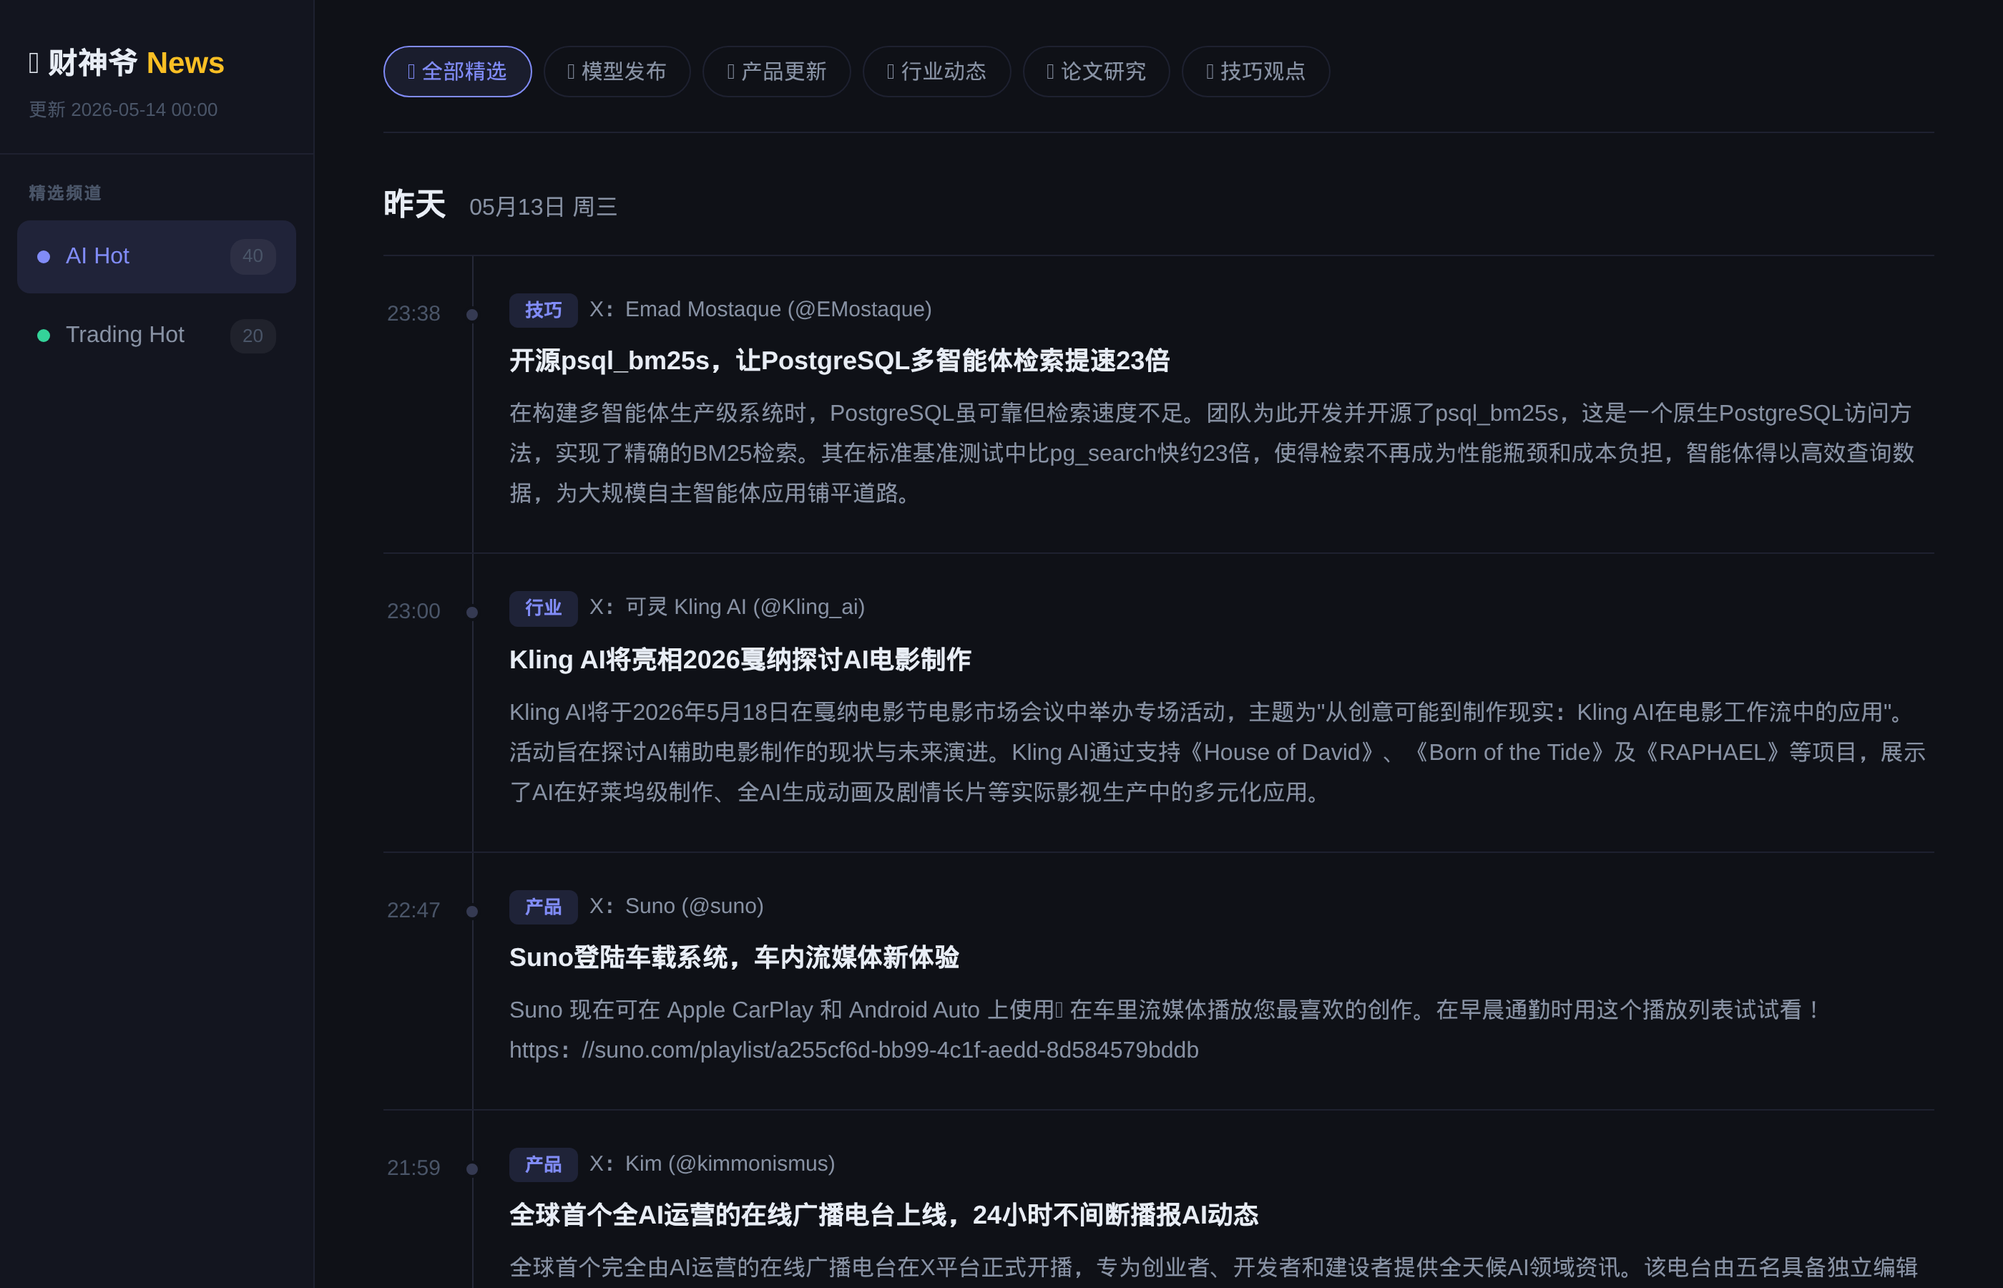
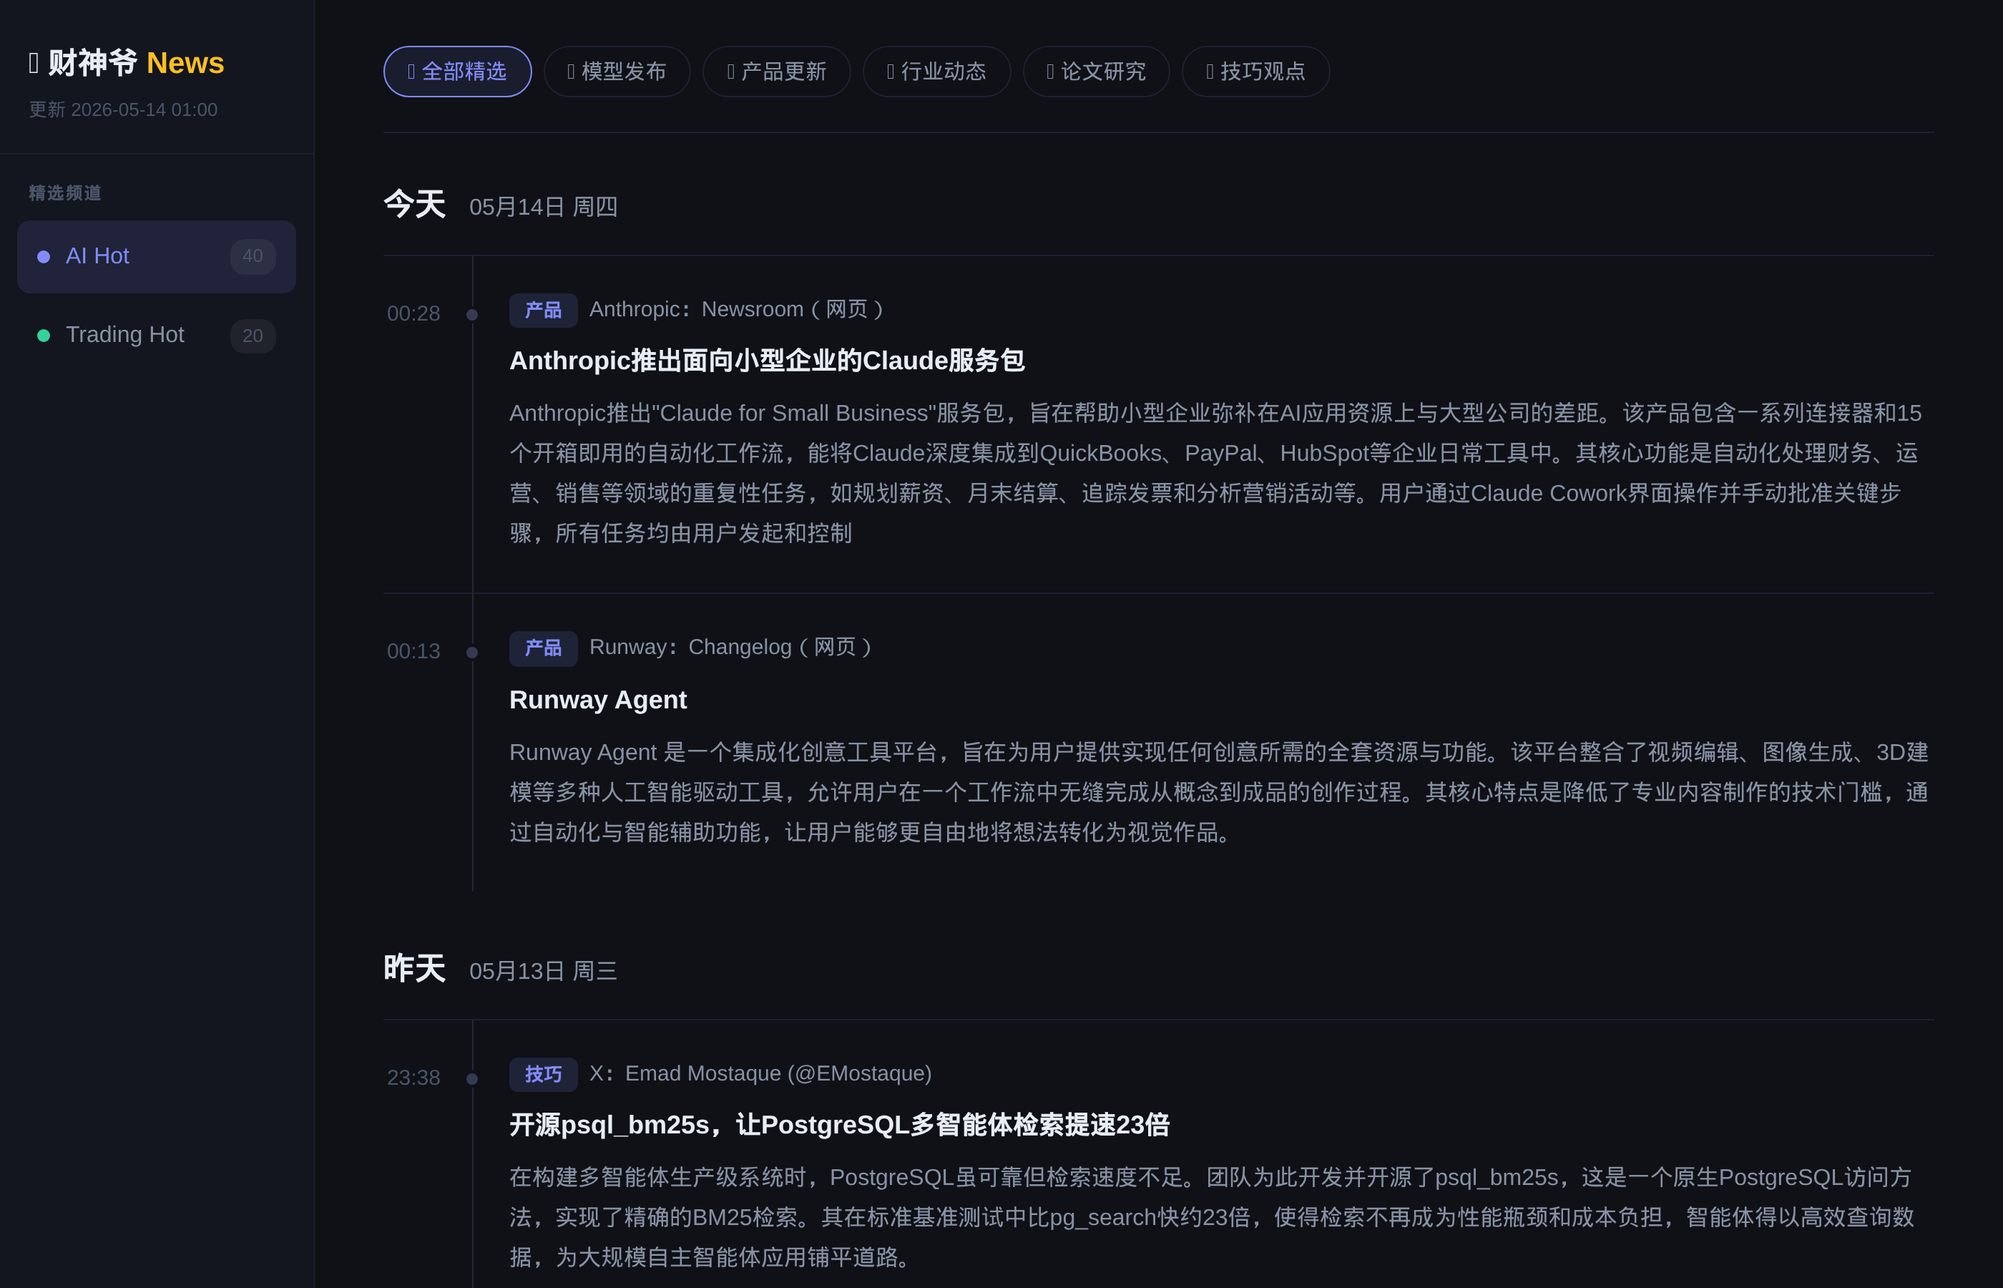
auto update 2026-05-14 01:00

Changed region(s): [[0.2486, 0.2178, 0.9632, 0.6533], [0.1864, 0.6844, 0.9632, 0.9956], [0.1864, 0.1556, 0.2175, 0.1867]]

diff --git a/index.html b/index.html
@@ -106,7 +106,7 @@ body{font-family:-apple-system,BlinkMacSystemFont,"Segoe UI","PingFang SC","Micr
 <body>
 <aside class="sb">
   <div class="sb-logo">💰 财神爷 <span>News</span>
-    <div class="sb-up">更新 2026-05-14 00:00</div>
+    <div class="sb-up">更新 2026-05-14 01:00</div>
   </div>
   <nav class="sb-nav">
     <div class="nav-lbl">精选频道</div>
@@ -122,6 +122,28 @@ body{font-family:-apple-system,BlinkMacSystemFont,"Segoe UI","PingFang SC","Micr
   <div class="section active" id="sec-aihot">
     <div class="cat-bar"><button class="cat-btn active" data-filter="all" data-section="sec-aihot" onclick="filterCat(this)">🔥 全部精选</button><button class="cat-btn" data-filter="ai-models" data-section="sec-aihot" onclick="filterCat(this)">🤖 模型发布</button><button class="cat-btn" data-filter="ai-products" data-section="sec-aihot" onclick="filterCat(this)">🚀 产品更新</button><button class="cat-btn" data-filter="industry" data-section="sec-aihot" onclick="filterCat(this)">🏭 行业动态</button><button class="cat-btn" data-filter="paper" data-section="sec-aihot" onclick="filterCat(this)">📄 论文研究</button><button class="cat-btn" data-filter="tip" data-section="sec-aihot" onclick="filterCat(this)">💡 技巧观点</button></div>
         <div class="dgroup">
+      <div class="dheader">今天 <span class='dsub'>05月14日 周四</span></div>
+      <div class="ilist">
+      <div class="item" data-cats="ai-products">
+        <div class="item-time">00:28</div>
+        <div class="item-body">
+          <div class="item-meta"><span class="badge badge-ai">产品</span><span class="isrc">Anthropic：Newsroom（网页）</span></div>
+          <a class="item-title" href="https://www.anthropic.com/news/claude-for-small-business" target="_blank" rel="noopener">Anthropic推出面向小型企业的Claude服务包</a>
+          <div class="item-summary">Anthropic推出&quot;Claude for Small Business&quot;服务包，旨在帮助小型企业弥补在AI应用资源上与大型公司的差距。该产品包含一系列连接器和15个开箱即用的自动化工作流，能将Claude深度集成到QuickBooks、PayPal、HubSpot等企业日常工具中。其核心功能是自动化处理财务、运营、销售等领域的重复性任务，如规划薪资、月末结算、追踪发票和分析营销活动等。用户通过Claude Cowork界面操作并手动批准关键步骤，所有任务均由用户发起和控制</div>
+        </div>
+      </div>
+
+      <div class="item" data-cats="ai-products">
+        <div class="item-time">00:13</div>
+        <div class="item-body">
+          <div class="item-meta"><span class="badge badge-ai">产品</span><span class="isrc">Runway：Changelog（网页）</span></div>
+          <a class="item-title" href="https://app.runwayml.com/agent" target="_blank" rel="noopener">Runway Agent</a>
+          <div class="item-summary">Runway Agent 是一个集成化创意工具平台，旨在为用户提供实现任何创意所需的全套资源与功能。该平台整合了视频编辑、图像生成、3D建模等多种人工智能驱动工具，允许用户在一个工作流中无缝完成从概念到成品的创作过程。其核心特点是降低了专业内容制作的技术门槛，通过自动化与智能辅助功能，让用户能够更自由地将想法转化为视觉作品。</div>
+        </div>
+      </div>
+      </div>
+    </div>
+    <div class="dgroup">
       <div class="dheader">昨天 <span class='dsub'>05月13日 周三</span></div>
       <div class="ilist">
       <div class="item" data-cats="tip">
@@ -383,15 +405,6 @@ https：//x.com/browser_use/status/2054330495249564094/video/1</div>
         </div>
       </div>
 
-      <div class="item" data-cats="tip">
-        <div class="item-time">02:54</div>
-        <div class="item-body">
-          <div class="item-meta"><span class="badge badge-ai">技巧</span><span class="isrc">Claude：Blog（网页）</span></div>
-          <a class="item-title" href="https://claude.com/blog/how-anthropic-uses-claude-cybersecurity" target="_blank" rel="noopener">Anthropic 网络安全团队如何利用 Claude Code 构建威胁检测平台</a>
-          <div class="item-summary">Anthropic 检测平台工程团队技术负责人 Jackie Bow 运用 Claude Code 开发了 CLUE 威胁检测与响应平台。该平台通过自然语言界面连接内部系统，包含 CLUE Triage 自动初筛警报，整合上下文信息分配处置建议；以及 CLUE Investigate 支持分析师用自然语言查询日志，由 Claude 自动生成并执行查询，将数小时的人工分析缩短至几分钟。团队在一天内完成概念验证，一周内交付实现，显著提升了安全运营效率。</div>
-        </div>
-      </div>
-
       <div class="item" data-cats="ai-models">
         <div class="item-time">02:23</div>
         <div class="item-body">
@@ -407,15 +420,6 @@ https：//x.com/browser_use/status/2054330495249564094/video/1</div>
           <div class="item-meta"><span class="badge badge-ai">行业</span><span class="isrc">X：cb_doge (@cb_doge)</span></div>
           <a class="item-title" href="https://x.com/cb_doge/status/2054265408933462034" target="_blank" rel="noopener">山姆·奥特曼因涉嫌利用OpenAI谋私利遭正式调查</a>
           <div class="item-summary">美国佛罗里达、蒙大拿等六州司法部长联合致信美国证券交易委员会，要求调查OpenAI CEO山姆·奥特曼涉嫌利用公司谋取个人利益的行为。信中指出奥特曼在OpenAI无直接股权，个人财务利益与公司业绩关联有限，存在严重的自我交易和利益冲突风险。同时，美国众议院监督委员会主席也要求其提交相关投资文件。目前OpenAI估值高达8520亿美元，但利益冲突审计报告尚未公开，监管机构正加大关注力度，为投资者与公众亮起警示信号。</div>
-        </div>
-      </div>
-
-      <div class="item" data-cats="ai-products">
-        <div class="item-time">01:54</div>
-        <div class="item-body">
-          <div class="item-meta"><span class="badge badge-ai">产品</span><span class="isrc">Claude：Blog（网页）</span></div>
-          <a class="item-title" href="https://claude.com/blog/claude-for-the-legal-industry" target="_blank" rel="noopener">Claude进军法律行业</a>
-          <div class="item-summary">Anthropic公司为法律行业发布20多个新的MCP连接器及12个专用插件，将Claude深度集成至合同管理、文档处理等法律核心软件栈。Claude现可直接在Microsoft Word、Outlook等办公应用中无缝工作，具备起草、修订、条款比对等可复用技能，并能自动化处理日常法律事务。公司同时宣布与多个司法公益组织合作，以扩大法律服务的可及性。</div>
         </div>
       </div>
 
@@ -465,29 +469,11 @@ https：//x.com/browser_use/status/2054330495249564094/video/1</div>
       </div>
 
       <div class="item" data-cats="tip">
-        <div class="item-time">01:05</div>
-        <div class="item-body">
-          <div class="item-meta"><span class="badge badge-ai">技巧</span><span class="isrc">Google Developers Blog（RSS）</span></div>
-          <a class="item-title" href="https://developers.googleblog.com/build-long-running-ai-agents-that-pause-resume-and-never-lose-context-with-adk" target="_blank" rel="noopener">使用ADK构建可暂停、恢复且永不丢失上下文的长时运行AI智能体</a>
-          <div class="item-summary">本文探讨了如何从无状态聊天机器人升级为生产级AI智能体，以管理长达数天或数周的企业工作流程（如HR入职）。通过引入Agent Development Kit（ADK），其架构核心采用持久状态机和持久化会话存储，确保智能体在&quot;空闲时间&quot;或服务器重启时永不丢失上下文。系统利用事件驱动的Webhook和多智能体委托机制，实现在暂停期间&quot;休眠&quot;，并在唤醒后以高推理准确性恢复复杂任务，从而构建出具备韧性和可靠性的长时运行智能体系统。</div>
-        </div>
-      </div>
-
-      <div class="item" data-cats="tip">
         <div class="item-time">00:59</div>
         <div class="item-body">
           <div class="item-meta"><span class="badge badge-ai">技巧</span><span class="isrc">X：小北 (@frxiaobei)</span></div>
           <a class="item-title" href="https://x.com/frxiaobei/status/2054245095587959004" target="_blank" rel="noopener">AI取代人类？各方叙事背后的利益驱动</a>
           <div class="item-summary">关于AI是否取代人类的讨论，实为不同利益方的叙事塑造：AI公司为高估值渲染替代能力，企业借AI解释裁员，教育机构制造焦虑，媒体追逐流量。吴恩达指出&quot;AI导致大规模失业&quot;是夸大其词，实际净增岗位远超替代，并以软件工程师招聘强劲、美国低失业率为证。他强调AI改变工作性质而非摧毁就业，揭露夸大叙事背后的商业动机--AI公司可通过对标员工薪资提高定价，企业则借AI掩饰疫情期间过度招聘。核心问题在于技术转型中个体如何应对，但这缺乏利益驱动力被认真探讨。</div>
-        </div>
-      </div>
-
-      <div class="item" data-cats="ai-products">
-        <div class="item-time">00:24</div>
-        <div class="item-body">
-          <div class="item-meta"><span class="badge badge-ai">产品</span><span class="isrc">Claude：Blog（网页）</span></div>
-          <a class="item-title" href="https://claude.com/blog/code-w-claude-sf-2026-sf" target="_blank" rel="noopener">Code w/ Claude SF 2026开发者大会：基于AI指数级增长的构建</a>
-          <div class="item-summary">在Code w/ Claude SF 2026开发者大会上，Anthropic宣布提升开发者工具能力。Claude Code的速率限制翻倍，Claude Opus的API限制提高，以支持大规模可靠开发。同时，Claude平台上的托管智能体新增四项功能：&quot;梦想&quot;功能通过回顾会话优化记忆；多智能体编排支持主智能体并行委派子任务；&quot;成果&quot;功能通过定义输出标准提升任务成功率，内部测试显示最难问题成功率最多提升10%；Webhooks提供任务完成通知。大会主题演讲和分组会议录像已上线，</div>
         </div>
       </div>
 
@@ -532,6 +518,24 @@ https：//x.com/browser_use/status/2054330495249564094/video/1</div>
           <div class="item-summary">本文介绍了在Claude Code中通过插件市场安装OpenAI官方Codex插件的具体步骤：添加库、安装插件、重新加载及配置。其核心实践动机源于HeavySkill论文提出的&quot;重思考&quot;方法，即让多个AI模型并行独立推理，再由一个模型（如Codex）作为主持人综合思路以提升回答质量。作者正依此构建由Claude Code推理、Codex主持的Skill。</div>
         </div>
       </div>
+
+      <div class="item" data-cats="tip">
+        <div class="item-time">23:00</div>
+        <div class="item-body">
+          <div class="item-meta"><span class="badge badge-ai">技巧</span><span class="isrc">OpenAI：官网动态（RSS · 排除企业/客户案例）</span></div>
+          <a class="item-title" href="https://openai.com/academy/how-finance-teams-use-codex" target="_blank" rel="noopener">财务团队如何使用 Codex</a>
+          <div class="item-summary">财务团队能够利用 Codex，基于实际工作输入构建管理层报告、报告包、差异桥接、模型检查和规划场景。该工具将自然语言指令转化为代码，自动化处理财务数据整合、差异分析和模型验证等复杂任务，从而提升报告生成效率与准确性，并支持快速创建多版本规划场景。</div>
+        </div>
+      </div>
+
+      <div class="item" data-cats="tip">
+        <div class="item-time">23:00</div>
+        <div class="item-body">
+          <div class="item-meta"><span class="badge badge-ai">技巧</span><span class="isrc">GitHub Blog</span></div>
+          <a class="item-title" href="https://github.blog/ai-and-ml/github-copilot/dungeons-desktops-building-a-procedurally-generated-roguelike-with-github-copilot-cli" target="_blank" rel="noopener">Dungeons &amp; Desktops： 使用 GitHub Copilot CLI 构建一款程序化生成的 Roguelike 游戏</a>
+          <div class="item-summary">一位 GitHub 员工利用 GitHub Copilot CLI 开发了一款扩展程序，能够将任何代码库转换成一个独特的 Roguelike 风格地下城。该工具通过 AI 辅助的代码生成，实现了程序化关卡创建，展示了 Copilot CLI 在创意编码和游戏原型开发中的实际应用潜力。项目核心是自动解析代码结构并生成对应的可探索地下城布局。</div>
+        </div>
+      </div>
       </div>
     </div>
   </div>
@@ -540,7 +544,7 @@ https：//x.com/browser_use/status/2054330495249564094/video/1</div>
         <div class="dgroup">
       <div class="dheader">昨天 <span class='dsub'>05月13日 周三</span></div>
       <div class="ilist">
-      <div class="item" data-cats="top crypto">
+      <div class="item" data-cats="crypto top">
         <div class="item-time">04:56</div>
         <div class="item-body">
           <div class="item-meta"><span class="badge badge-trading">加密</span><span class="score-badge">72分</span><span class="isrc">The Block</span><span class="ticker">$C</span><span class="ticker">$COIN</span></div>
@@ -550,7 +554,7 @@ https：//x.com/browser_use/status/2054330495249564094/video/1</div>
         </div>
       </div>
 
-      <div class="item" data-cats="top macro">
+      <div class="item" data-cats="macro top">
         <div class="item-time">04:55</div>
         <div class="item-body">
           <div class="item-meta"><span class="badge badge-trading">宏观利率</span><span class="score-badge">77分</span><span class="isrc">华尔街见闻</span></div>
@@ -560,7 +564,7 @@ https：//x.com/browser_use/status/2054330495249564094/video/1</div>
         </div>
       </div>
 
-      <div class="item" data-cats="top ai_tech crypto">
+      <div class="item" data-cats="ai_tech crypto top">
         <div class="item-time">04:46</div>
         <div class="item-body">
           <div class="item-meta"><span class="badge badge-trading">加密</span><span class="score-badge">68分</span><span class="isrc">Decrypt</span><span class="ticker">$F</span></div>
@@ -580,7 +584,7 @@ https：//x.com/browser_use/status/2054330495249564094/video/1</div>
         </div>
       </div>
 
-      <div class="item" data-cats="top ai_tech">
+      <div class="item" data-cats="ai_tech top">
         <div class="item-time">04:36</div>
         <div class="item-body">
           <div class="item-meta"><span class="badge badge-trading">市场异动</span><span class="score-badge">67分</span><span class="isrc">MarketWatch Top Stories</span><span class="ticker">$V</span></div>
@@ -610,7 +614,7 @@ https：//x.com/browser_use/status/2054330495249564094/video/1</div>
         </div>
       </div>
 
-      <div class="item" data-cats="top ai_tech crypto">
+      <div class="item" data-cats="ai_tech crypto top">
         <div class="item-time">03:45</div>
         <div class="item-body">
           <div class="item-meta"><span class="badge badge-trading">加密</span><span class="score-badge">69分</span><span class="isrc">Decrypt</span><span class="ticker">$BTC</span><span class="ticker">$MARA</span></div>
@@ -660,7 +664,7 @@ https：//x.com/browser_use/status/2054330495249564094/video/1</div>
         </div>
       </div>
 
-      <div class="item" data-cats="top geo macro">
+      <div class="item" data-cats="macro top geo">
         <div class="item-time">02:10</div>
         <div class="item-body">
           <div class="item-meta"><span class="badge badge-trading">市场异动</span><span class="score-badge">72分</span><span class="isrc">CNBC Top News</span><span class="ticker">$C</span></div>
@@ -680,7 +684,7 @@ https：//x.com/browser_use/status/2054330495249564094/video/1</div>
         </div>
       </div>
 
-      <div class="item" data-cats="top macro">
+      <div class="item" data-cats="macro top">
         <div class="item-time">01:33</div>
         <div class="item-body">
           <div class="item-meta"><span class="badge badge-trading">宏观利率</span><span class="score-badge">71分</span><span class="isrc">CNBC Markets</span><span class="ticker">$F</span></div>
@@ -700,7 +704,7 @@ https：//x.com/browser_use/status/2054330495249564094/video/1</div>
         </div>
       </div>
 
-      <div class="item" data-cats="top macro">
+      <div class="item" data-cats="macro top">
         <div class="item-time">00:38</div>
         <div class="item-body">
           <div class="item-meta"><span class="badge badge-trading">市场异动</span><span class="score-badge">67分</span><span class="isrc">CNBC Top News</span><span class="ticker">$C</span><span class="ticker">$F</span></div>
@@ -724,7 +728,7 @@ https：//x.com/browser_use/status/2054330495249564094/video/1</div>
         </div>
       </div>
 
-      <div class="item" data-cats="top crypto">
+      <div class="item" data-cats="crypto top">
         <div class="item-time">22:37</div>
         <div class="item-body">
           <div class="item-meta"><span class="badge badge-trading">加密</span><span class="score-badge">70分</span><span class="isrc">Decrypt</span><span class="ticker">$C</span></div>
@@ -734,7 +738,7 @@ https：//x.com/browser_use/status/2054330495249564094/video/1</div>
         </div>
       </div>
 
-      <div class="item" data-cats="top crypto">
+      <div class="item" data-cats="crypto top">
         <div class="item-time">19:55</div>
         <div class="item-body">
           <div class="item-meta"><span class="badge badge-trading">加密</span><span class="score-badge">75分</span><span class="isrc">Decrypt</span><span class="ticker">$C</span></div>
